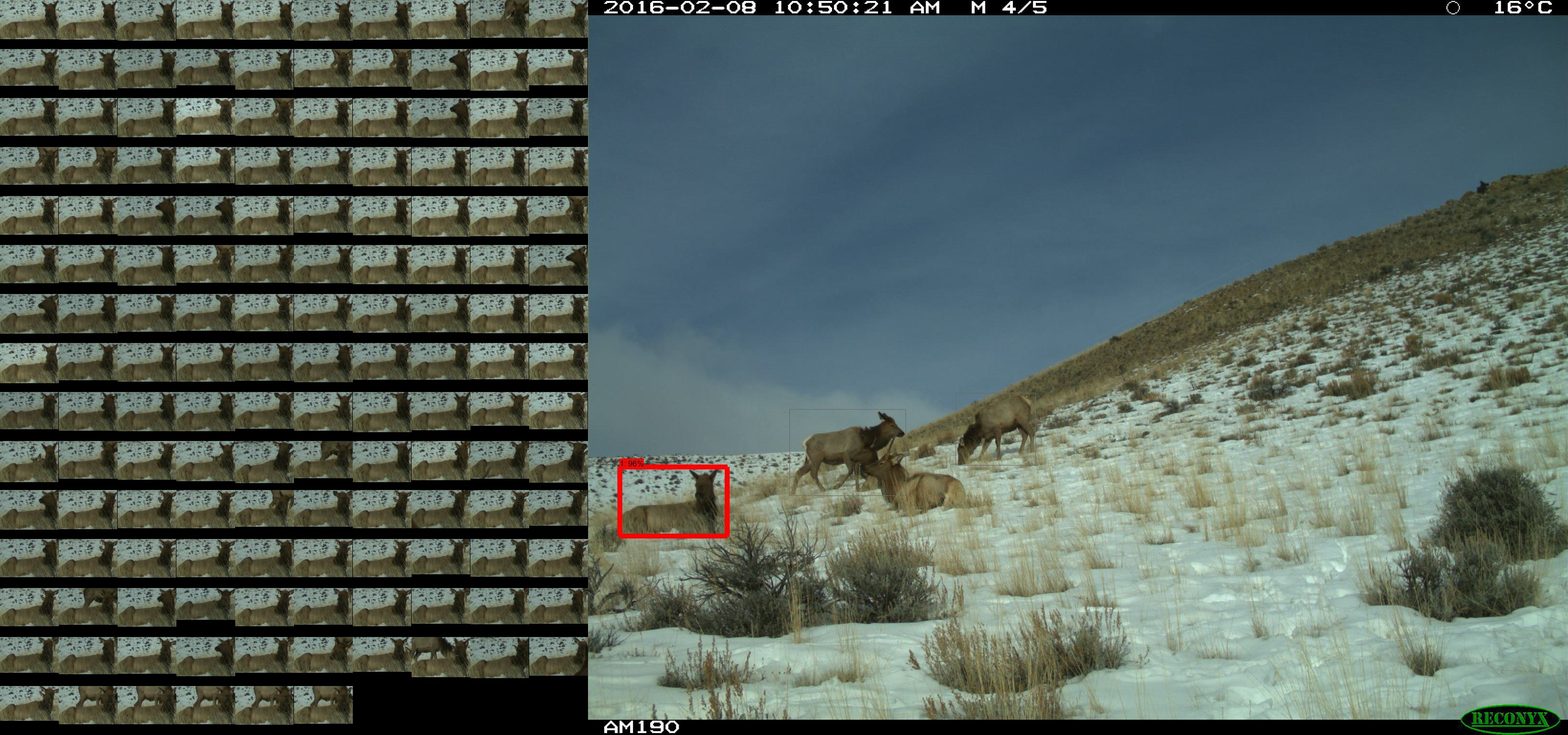
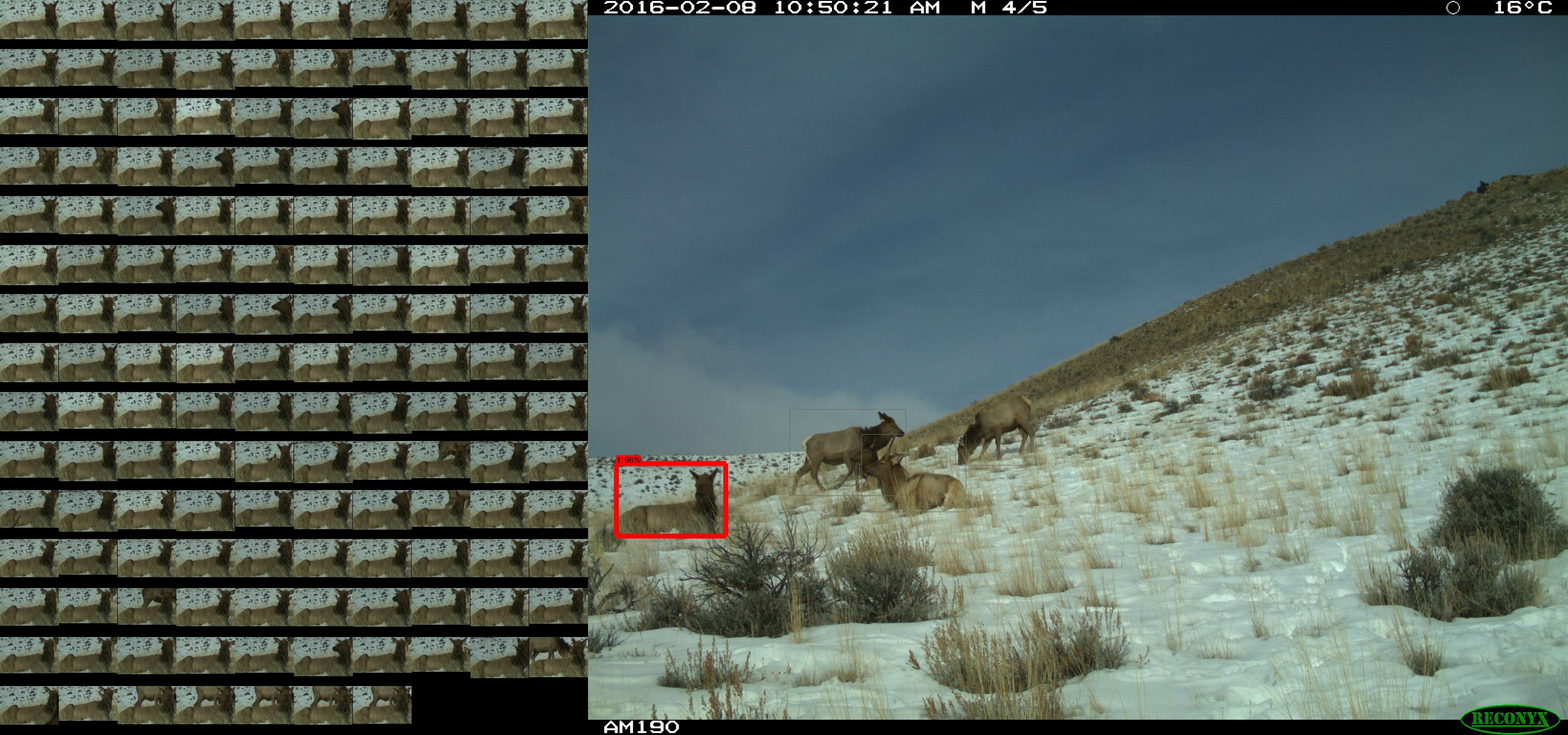
Fixed an issue in RDE whereby suspicious detections were excluded from the rendering samples for other suspicious detections, which isn't exactly "wrong", but isn't what I meant.

Changed region(s): [[0.0, 0.0, 0.4688, 1.0]]

diff --git a/api/batch_processing/postprocessing/repeat_detection_elimination/repeat_detections_core.py b/api/batch_processing/postprocessing/repeat_detection_elimination/repeat_detections_core.py
@@ -9,6 +9,7 @@
 #%% Imports and environment
 
 import os
+import copy
 import warnings
 import sklearn.cluster
 import numpy as np
@@ -856,8 +857,17 @@ def render_sample_image_for_detection(detection,filteringDir,options):
             
             assert detection.sampleImageDetections is not None
             
+            # At this point, suspicious detections have already been flipped 
+            # negative, which we don't want for rendering purposes
+            rendered_detections = []
+            
+            for det in detection.sampleImageDetections:
+                rendered_det = copy.copy(det)
+                rendered_det['conf'] = abs(rendered_det['conf'])
+                rendered_detections.append(rendered_det)    
+                
             # Render other detections first (typically in a thin+light box)
-            render_detection_bounding_boxes(detection.sampleImageDetections,
+            render_detection_bounding_boxes(rendered_detections,
                 im,
                 label_map=None,
                 thickness=options.otherDetectionsLineWidth,
